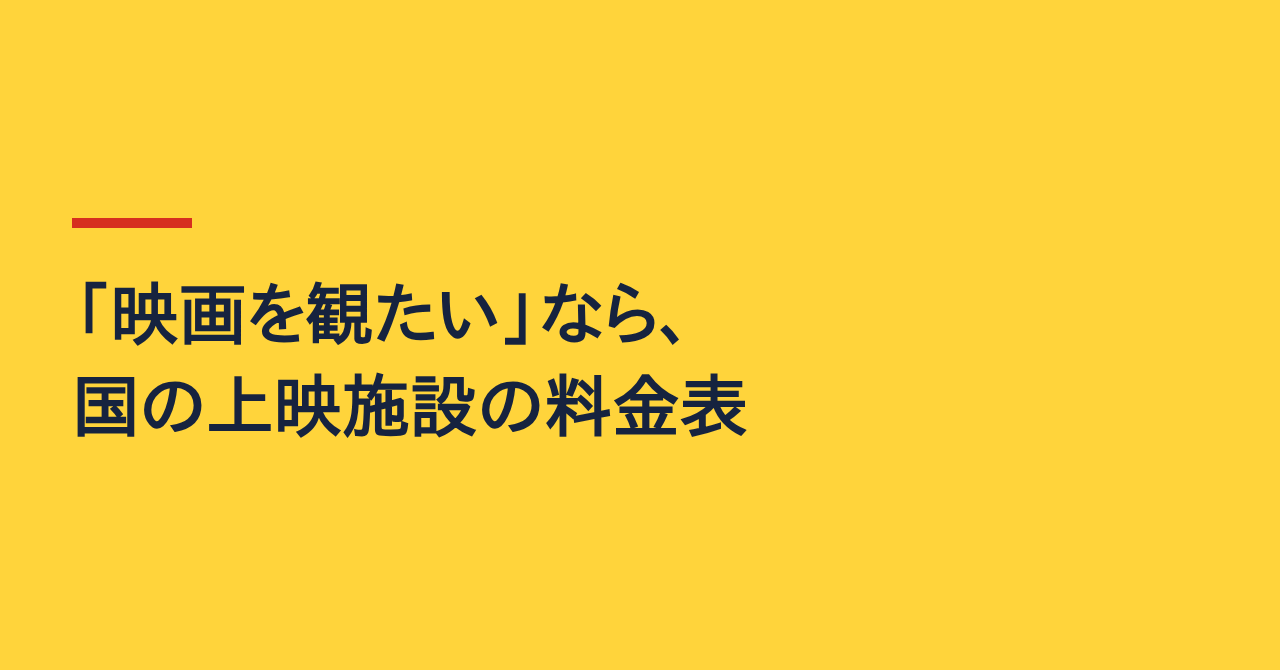
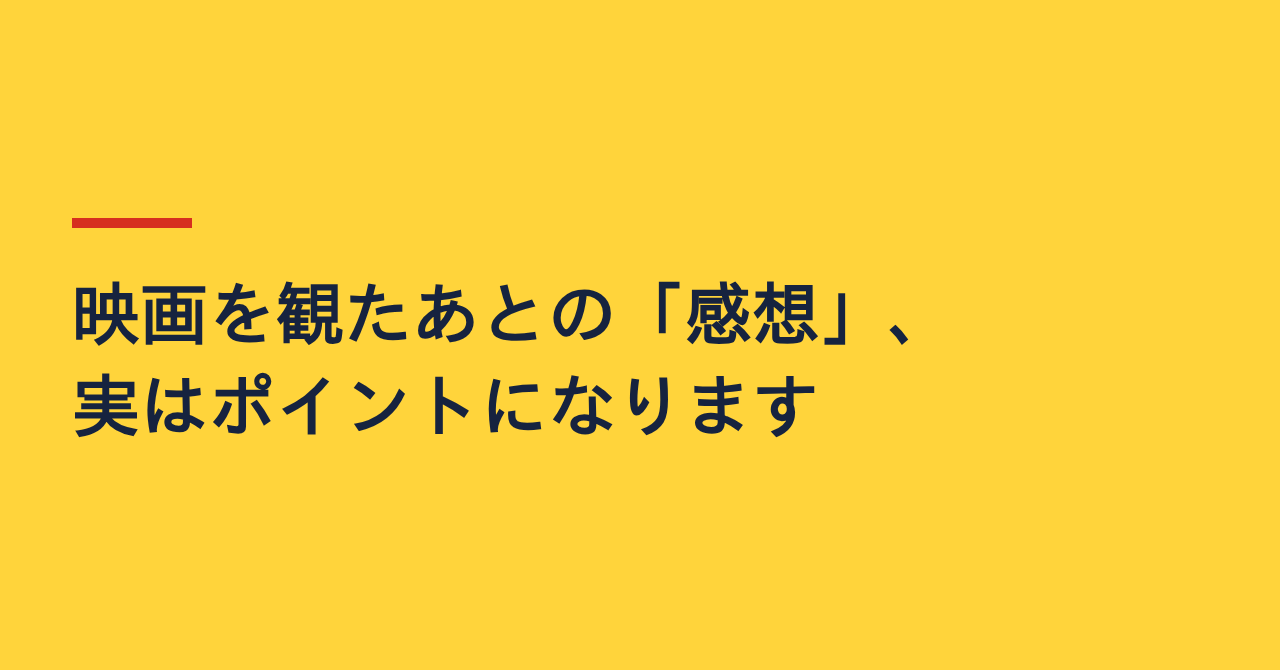
2026-10-28_001: Oricon-centered revision, title option 4, figures
Claude-Session: https://claude.ai/code/session_019jxzMkHZEL8EPC28xkVZW1

Changed region(s): [[0.0625, 0.4179, 0.7188, 0.6567]]

diff --git a/runs/2026-10-28_001/05_revised.md b/runs/2026-10-28_001/05_revised.md
@@ -1,100 +1,129 @@
-# 帰り道の「映画の感想」、お礼が出る調査もある
+# 映画を観たあとの「感想」、実はポイントになります
 
 【画像:2026-10-28_cover.png】
 
-こんにちは、人生最適化中の会社員です。今日は、映画の感想と、調査・モニターの話です。
+こんにちは、人生最適化中の会社員です。今日は、アンケートに答えてポイントをためる「オリコン・モニターリサーチ」を、公式の説明の範囲で見ていきます。
 
-映画館を出て、駅まで歩きながら「あのシーン、よかったね」と話す。その感想は、家に着くころには忘れている。そんな人もいると思います。
+映画館を出て、駅まで歩きながら「あのシーン、よかったね」と話す。その感想は、家に着くころには忘れている。そんな人もいると思います。その感想が、ポイントになるなら気になりますよね。
 
-ところが映画の試写会では、作品が観客にどう受け止められるかを調べる調査があると、市場調査会社のページで紹介されています(検索結果の要旨で確認。ページの本文までは読めていません)。感想を知りたい人は、世の中にいるようです。
+## 先に答え
 
-## 先に結論
+タイトルについて、先に正直にお伝えします。
 
-- 映画の試写会などで、観客の受け止めを調べる調査がある
-- 調査やモニターには、謝礼が出る案件がある。形も金額も、案件ごとに違う
-- ただし、この2つをつなげた「映画の感想に、お礼が出る」例は、公式のページでは確認できていません
+- 映画を観る必要があるかは、公式の説明に書かれていません
+- 書かれているのは、「アンケートに答えると、ポイントがたまる」ことです
+- ポイントは現金ではなく、3,000ポイントごとにAmazonギフト券番号と交換できる仕組みです
+- 1回のポイント数や、1ポイントの価値は、確認した範囲の説明にありません
 
-つまり、タイトルの「お礼が出る調査もある」は、「映画の調査」と「謝礼のある調査」が、それぞれ世の中にある、という意味です。「稼げる」という話ではありません。サービス名や金額は、公式の条件を確かめられたものだけを書いています。
+つまり「映画を観るだけでお金がもらえる」という話ではありません。「稼げる」という話でもありません。アンケートに答えて、ポイントをためる仕組みを紹介する記事です。
 
-この記事は一般的な情報で、助言ではありません。判断は自己責任で、必要なら専門家や公式の窓口に相談してください。
+この記事は一般的な情報で、助言ではありません。判断は自己責任で、必要なら公式の窓口に相談してください。
 
-## 公式のページで確認できた2つの制度
+## オリコン・モニターリサーチとは
 
-どちらも映画ではありません。別々の制度なので、1つずつ見ていきます。
-
-**文化庁の芸術祭「無料モニター」(観て、アンケートに答える)**
-
-歌舞伎やオーケストラなどの舞台公演を無料で鑑賞し、鑑賞後のアンケートに答える仕組みです。応募フォームから申し込み、応募が多いときは抽選になります。鑑賞は1人1公演で、権利の譲渡や転売は禁止です。当選者には9月中にメールで連絡があり、連絡がなければ落選と書かれています。アンケートの回答は必須で、交通費は出ません。現金の謝礼の記載もありません。令和8年度の受付は終了しています。(出典:文化庁、取得日2026年10月28日)
-
-**東京都のインターネット都政モニター(答えて、図書カードなどを受け取る)**
-
-18歳以上で都内に住み、個人のメールアドレスがある人が対象です。国・都・区市町村の職員は対象外で、定員は500名です。応募が多いときは、性別・年代・地域を考慮した選考があり、先着ではありません。結果は、メールで6月末までに知らせると書かれています。
-
-オンラインのアンケートに年6回ほど答え、1回ごとに「500円の図書カード」か「500東京ポイント」が、任期終了時にまとめて渡されます。令和8年度の応募期間は2026年5月12日〜28日で、終了しています。次の募集時期は確認できていません。(出典:東京都、取得日2026年10月28日)
-
-文化庁の例は「観て答える」ですが、謝礼はありません。都の例は「答えて受け取る」ですが、観るものはありません。映画の感想でお礼が出る例を、公式のページで見つけられたわけではない、という点は押さえておいてください。
-
-## 応募から受け取りまでの流れ
-
-2つの制度を並べると、おおまかな流れは次のようになります。
+オリコン・モニターリサーチは、オリコンが運営するアンケートモニターのサービスです。公式サイト(omr.oricon.co.jp)の「モニター活動の流れ」では、次の3つのステップで説明されています。この記事は、公式サイトの画面と、会員特典のページの本文をもとに書いています。
 
 【画像:2026-10-28_fig1_flow.png】
 
-どちらも、思い立ったその日に始められる形ではありません。募集の時期が決まっていて、応募して、選ばれてから動き出します。
+**ステップ1 会員登録**
 
-## 次の募集の探し方
+「新規モニター登録」から登録します。アンケートのお願いは、登録したメールアドレス宛に届きます。
 
-調査やモニターを探すなら、住んでいる市区町村や都道府県の公式サイトの検索窓に、「モニター 募集」と入れてみるのが手がかりになります。
+**ステップ2 好きなアンケートに回答**
 
-たとえば船橋市の「eモニターアンケート」は、対象が船橋市に住む18歳以上で、令和9年度分を令和9(2027)年2月から募集する予定と、公式ページに書かれています。登録すると1か月以内に完了メールが届き、月に1〜2回アンケートのメールが来ます。1回の回答は5分ほどとあります。年度末には、翌年度も続けるかを答えます。ただし、このページには謝礼の記載がなく、金額はわかりません。(出典:船橋市、更新日2026年10月6日、取得日2026年10月28日)
+お願いが届いたら、マイページから好きなアンケートを選んで答えます。パソコンやスマートフォンから答えられると説明されています。
 
-市区町村ごとに、対象も条件も募集の時期も違います。民間の調査やモニターは、運営している会社の公式ページで、募集の条件を読んでから応募すると安心です。
+**ステップ3 ポイントをゲット**
 
-## 応募の前に見る4つ
+回答したアンケートに応じて、ポイントが加算されます。3,000ポイントたまるごとに、Amazonギフト券番号と交換できます。
 
-応募ボタンを押す前に、次の4つを見ておくと、あとで困りにくくなります。
+「好きなアンケートを選ぶ」とあるので、届いたお願いの中から、自分の関心のあるものを選べる形のようです。
+
+## 会員特典で書かれていること
+
+会員特典のページには、次の3つが書かれています。
+
+- **ポイント**:アンケートに答えるとポイントがたまり、3,000ポイントごとにAmazonギフト券番号と交換できる
+- **プレゼント**:モニター会員限定の「イベント・プレゼント企画」が不定期にあり、家電やチケット、試写会、本などがもらえるチャンスがある
+- **ランキングや特集記事**:回答が、ランキングや特集記事などに活かされることがある
+
+プレゼント企画は「不定期」で、「チャンス」とあります。毎回もらえる、という意味ではありません。試写会がもらえる企画もあるようですが、必ずもらえるとは書かれていません。
+
+## 書かれていないこと
+
+ここまでの公式の説明には、次のことが書かれていませんでした。
+
+- 1回のアンケートが何ポイントか、1ポイントがいくらの価値か
+- 登録できる年齢などの条件
+- 費用(無料かどうか)
+- 映画を観る必要があるか
+- プレゼント企画の中身や当選の確率
+
+読者の方が気になるところだと思います。登録する前に、公式サイトの「会員規約」などで確かめておくと安心です。また、画面には「新規モニター募集中!!」と出ていました(公式サイトの画面による。取得日2026年11月1日)。募集の状況は、いつ読んでも同じとは限りません。募集状況は、公式で確認を。
+
+## 過去の回の例:映画GIFTが当たる企画
+
+検索結果の要旨で、2025年2月に、映画GIFTが当たるキャンペーンがあった回が見つかりました。要旨の内容は、登録とアンケートへの回答で、抽選12名に映画GIFT2,000円分(2枚)が当たる、というものです。要旨では、映画を観る必要はなく、現金でもなく、ムビチケの購入に使うものとされていました。
+
+ただし、これは要旨のみの確認で、公式の本文は確認できていません。過去の回の例なので、いまの回の条件は不明です。同じ企画が今あるとは限りません。
+
+## ほかにも公式の制度がある
+
+オリコンのような民間のサービスのほかに、公的機関のモニターもあります。今回、公式ページで確認できたのは次の3つです。どれも映画ではなく、別々の制度です。
+
+- **文化庁の芸術祭「無料モニター」**:歌舞伎やオーケストラなどの舞台公演を無料で鑑賞し、鑑賞後のアンケートに答える仕組みです。応募が多いときは抽選で、交通費は出ません。現金の謝礼の記載もありません。令和8年度の受付は終了しています。(出典:文化庁、取得日2026年10月28日)
+- **東京都のインターネット都政モニター**:18歳以上で都内に住む人が対象で、応募が多いときは選考があります。年6回ほどオンラインのアンケートに答え、1回ごとに500円の図書カードか500東京ポイントが、任期終了時にまとめて渡されます。令和8年度の募集は終了しています。(出典:東京都、取得日2026年10月28日)
+- **船橋市のeモニターアンケート**:船橋市に住む18歳以上が対象で、令和9年度分を2027年2月から募集する予定と書かれています。このページには謝礼の記載がなく、金額はわかりません。(出典:船橋市、更新日2026年10月6日、取得日2026年10月28日)
+
+対象も条件も募集の時期も、制度ごとに違います。
+
+## 登録の前に見る4つ
+
+登録や応募のボタンを押す前に、次の4つを見ておくと、あとで困りにくくなります。
 
 【画像:2026-10-28_fig2_check.png】
 
 ## つまずきやすいところ(読者のあるある)
 
-**「映画の感想でお礼」と聞いて、レビューサイトに書けばもらえると思った。** そんな人もいるかもしれません。ここまで見てきた制度は、どれも募集に応募して、条件に合って、決められた形で答えるのが前提でした。
+**「映画の感想でポイント」と聞いて、観ればすぐにたまると思った。** そんな人もいるかもしれません。公式の説明にあるのは、アンケートに答えるとポイントが加算される、という仕組みです。
 
-**募集に気づいたときには、終わっている。** 今回確認した公的なモニターは、令和8年度の受付が終わっているものばかりでした。気づいたときには締め切り後だった、という人もいると思います。次の募集予定が書かれているものは、カレンダーにメモしておくと見逃しにくくなります。
+**ポイントは、思ったよりゆっくりたまる。** 交換は3,000ポイントごとです。1回のポイント数は説明にないので、何回答えれば交換できるのかは、登録してみないとわかりません。そのペースに、つい気持ちが先に行ってしまう人もいると思います。
 
 ## 先にお金を求められたら、いったん止まる
 
 「簡単に稼げる」とうたう副業の相談として、仕事に申し込んだら、先にマニュアル代2万2,000円を求められた例が、国民生活センターに載っています。2023年10月の公表で、少し前の事例ですが、考え方は今も使えます。(出典:国民生活センター、2023年10月27日公表)
 
-モニターや調査の募集でも、登録料やサポート料など、先にお金を求められる話は、いったん止まってください。不安なときは、消費者ホットライン「188」に相談できます。
+モニターやアンケートの募集でも、登録料やサポート料など、先にお金を求められる話は、いったん止まってください。不安なときは、消費者ホットライン「188」に相談できます。
 
-もう1つ、口コミやレビューを書く依頼もあります。消費者庁は、広告であることがわからない表示(ステルスマーケティング)を、2023年10月1日から景品表示法違反としています。規制の対象は広告主(事業者)で、依頼を受けて書いた人ではないと説明されています。ですので、感想を書いただけで読者が違法になるわけではありません。
+口コミやレビューを書く依頼もあります。消費者庁は、広告であることがわからない表示(ステルスマーケティング)を、2023年10月1日から景品表示法違反としています。規制の対象は広告主(事業者)で、依頼を受けて書いた人ではないと説明されています。感想を書いただけで、読者が違法になるわけではありません。ただ、「星5で」のように内容を指定される依頼は、事業者の表示に当たると考えられます。引き受ける前に、一度考えてみてもよさそうです。(出典:消費者庁)
 
-ただ、「星5で」のように内容を指定される依頼や、推奨コメントを条件にする依頼は、事業者の表示に当たると考えられます。引き受ける前に、一度考えてみてもよさそうです。割引などを提供するだけで、投稿内容の指示がなければ、通常は事業者の表示に当たらないとも書かれています。(出典:消費者庁)
-
-## お礼をもらったら、税金は?
+## ポイントやギフト券をもらったら、税金は?
 
 副業などの収入で、給与以外の所得の合計が年20万円を超えると、会社員でも確定申告が必要になる場合があります(給与を1か所から受けていて、全額が源泉徴収されている人の場合)。(出典:国税庁 No.1900)
 
-ただし、これは所得税の確定申告の目安です。「20万円以下なら何もしなくてよい」という意味ではありません。住民税など、ほかの手続きもあります。調査やモニターのお礼が、どの所得に当たるのかは、国税庁のページや税務署、お住まいの市区町村で確かめておくと確実です。
+ただし、これは所得税の確定申告の目安です。「20万円以下なら何もしなくてよい」という意味ではありません。住民税など、ほかの手続きもあります。ポイントやギフト券が、どの所得に当たるのかは、国税庁のページや税務署、お住まいの市区町村で確かめておくと確実です。
 
 ## まとめ
 
-- 映画の試写会などで、観客の受け止めを調べる調査がある(市場調査会社のページの要旨で確認)
-- 調査やモニターには、謝礼が出る案件があり、形も金額も案件ごとに違う
-- 公式で確認できたのは、「観て、アンケートに答える」(文化庁・舞台公演)と、「アンケートに答えて、図書カードなどを受け取る」(東京都)の2つ。別々の制度で、どちらも令和8年度は終了
-- 次の募集は、船橋市のeモニターのように、予定が書かれているものから探せる
+- オリコン・モニターリサーチは、アンケートに答えるとポイントがたまるモニターサービス
+- 流れは「新規モニター登録」→アンケートに回答→ポイント加算→3,000ポイントごとにAmazonギフト券番号と交換
+- ポイントはギフト券番号と交換するもので、現金ではない
+- 映画を観る必要があるかは、公式の説明に書かれていない。1回のポイント数や条件、費用も書かれていない
+- 画面には「新規モニター募集中!!」とあったが、募集状況は公式で確認を
+- 映画GIFTが当たる企画は、過去の回の例(要旨のみの確認)。いまの回の条件は不明
+- ほかにも、文化庁・東京都・船橋市のような公式の制度がある
 - 先にお金を求められる話は止まる。相談先は188
-- お礼をもらったときの税金の扱いは、国税庁で確かめる
 
 最後まで読んでくれて、ありがとうございます。
 
 ## 情報源
+- https://omr.oricon.co.jp/ (オリコン・モニターリサーチ公式サイト「モニター活動の流れ」。公式サイトの画面で確認、取得日 2026-11-01。公式ページは編集部が直接開けていない)
+- オリコン・モニターリサーチ「会員特典」(公式ページの本文、取得日 2026-10-28)
+- 過去の映画GIFTキャンペーン(2025年2月の回): 検索結果の要旨のみで確認。公式の本文は未確認
 - https://www.bunka.go.jp/seisaku/geijutsubunka/jutenshien/geijutsusai/r08/94414001.html (文化庁 芸術祭無料モニター、取得日 2026-10-28)
 - https://www.metro.tokyo.lg.jp/information/press/2026/04/2026042301 (東京都 都政モニターの募集、公開 2026-04-23、取得日 2026-10-28)
 - https://www.metro.tokyo.lg.jp/tosei/iken-sodan/monitor (東京都 インターネット都政モニター、更新 2026-10-15、取得日 2026-10-28)
 - https://www.city.funabashi.lg.jp/shisei/kouchou/002/p120231.html (船橋市 eモニターアンケート、更新 2026-10-06、取得日 2026-10-28)
-- https://www.sisinternational.com/ja/expertise/movie-test-screening-market-research/ (SIS International 映画試写会の市場調査、取得日 2026-10-28。検索結果の紹介文のみで確認。ページ本文は未確認)
 - https://www.kokusen.go.jp/news/data/n-20231027_1.html (国民生活センター、公表 2023-10-27、取得日 2026-10-28)
 - https://www.caa.go.jp/policies/policy/representation/fair_labeling/stealth_marketing/ (消費者庁 ステルスマーケティング規制、取得日 2026-10-28)
 - https://www.caa.go.jp/policies/policy/representation/fair_labeling/faq/stealth_marketing/ (消費者庁 ステルスマーケティングに関するQ&A、取得日 2026-10-28)
@@ -117,4 +146,5 @@
 - 問題14: S4(雑所得)は本文で使っていないので情報源から外した。20万円の段落に「所得税の確定申告の目安で、20万円以下なら何もしなくてよい、ではない。ほかの手続きもある。国税庁・市区町村で確認」と添えた(住民税の中身は書いていない)。国民生活センターの例に「2023年10月の公表で、少し前の事例」と添えた。
 - 問題15: 中身のない次回予告を削除した(翌日のテーマが未決のため、入れない)。
 - 問題16: 「## 情報源」より後の執筆メモを削除した。サービス名・金額・条件の実名メモは author_notes.md にだけ残した。
-- 校正: 「謝礼」と「お礼」の使い分け(一般論は「謝礼」、読者向けの見出し・タイトルは「お礼」)、「答える/観る」の言い方、AIっぽい定型句(「最初に、はっきりさせておきます」「だからこそ〜という流れです」「ここで大事なのは」「ちゃんとありました」)を削除・言いかえ。「先に結論」の見出しを整理。否定の2連続を言いかえた。
+- 再編集(2026-11-01、持ち主から届いた公式情報にもとづく): (1) 記事の中心を、実名の「オリコン・モニターリサーチ」にした。使った事実は、新規モニター登録、お願いは登録メール宛、マイページから好きなアンケートを選ぶ、パソコン・スマホで回答、回答に応じたポイント加算、3,000ポイントごとにAmazonギフト券番号と交換、会員限定プレゼント企画(不定期・チャンス)、回答がランキング・特集記事に活かされることがある、の範囲のみ。(2) 1回のポイント数・1ポイントの価値・年齢などの条件・無料かどうか・映画を観る必要・試写会が必ず当たるか、は「書かれていない」と明記した。「映画を観るだけでお金」「稼げる」「◯円もらえる」の断定はせず、ポイントやギフト券で現金ではないと書いた。(3) 2025年2月の映画GIFT企画は「過去の回の例。要旨のみの確認で、公式の本文は未確認。いまの回の条件は不明」と短く入れた。(4) 文化庁・東京都・船橋市は「ほかにも公式の制度がある」の1節にまとめ、主役をオリコンにした。以前の問題1〜16の対応のうち、映画の試写会の導入・先に結論・流れ図の内容・まとめは、この再編集で置き換えた。(5) タイトルを「映画を観たあとの「感想」、実はポイントになります」に変え、本文の「先に答え」で正直に答えた。(6) 情報源にオリコン公式サイト(スクリーンショットで確認、取得日2026-11-01、公式ページは直接開けていない)と会員特典の本文(持ち主が貼付、URLは持ち主が確認)を載せた。(7) あるあるは導入・「つまずきやすいところ」の2つ+1つの計3か所以内。(8) figures.json を、表紙(icon yen、猫なし、1行12字以内)と、オリコンの流れの timeline、登録前の4つの checklist(boxes:false)に直した。承認2・投稿・SNS投稿はしていない。
+- 校正: 「謝礼」と「お礼」の使い分け(一般論は「謝礼」)、「答える/観る」の言い方、AIっぽい定型句(「最初に、はっきりさせておきます」「だからこそ〜という流れです」「ここで大事なのは」「ちゃんとありました」)を削除・言いかえ。「募集状況は公式で確認を」の言い方をそろえた。

diff --git a/runs/2026-10-28_001/author_notes.md b/runs/2026-10-28_001/author_notes.md
@@ -1,6 +1,32 @@
 # author_notes(実行 2026-10-28_001)
 
-## 【最新】2026-10-28 新しい方向での書き直し(03_draft.md)
+## 【最新】2026-11-01 再編集(オリコン・モニターリサーチを主役に)
+持ち主は「映画を見るだけでお金がもらえるの!?という意外性・興味」を求めている。事実の範囲で1番を採用(仮)。
+
+### タイトル候補5つ
+1. 映画の感想を答えるだけで、ポイントがもらえるって本当?(26字)※採用(仮)。問いの形で意外性を出し、本文で正直に答える
+2. 映画の感想で、ポイントがたまるモニターがあるって知ってた?(27字)
+3. 「映画の感想」に、ポイントがつくアンケートの話(21字)
+4. アンケートに答えてポイントをためる、その流れを見てみた(26字)※「見てみた」は体験を装うので不向き
+5. 映画の「感想」は、ポイントになる?公式の説明を読む(23字)
+
+### 使った事実・使わなかった事実
+- 使った: owner_source_oricon.md の「使える事実」のみ。映画GIFT(2025年2月)は要旨のみ、過去の回の例として短く。
+- 書かなかった: 1回のポイント数、1ポイントの価値、年齢などの条件、無料かどうか、映画を観る必要、試写会が必ず当たるか。「書かれていない」と書いた。
+- 「映画を観るだけでお金」「稼げる」「◯円もらえる」は断定していない。ポイント・ギフト券で現金ではない、と明記。
+
+### Claudeの提案(未確認)— 足した「あるある」(3か所。合わなければ消す。読者の場面で、筆者の体験ではない)
+1. 導入: 「その感想が、ポイントになるなら気になりますよね」と、帰り道の場面
+2. 「『映画の感想でポイント』と聞いて、観ればすぐにたまると思った。」
+3. 「ポイントは、思ったよりゆっくりたまる。」(交換が3,000ポイントごと、という事実から。1回のポイント数は書いていない)
+
+### 未了
+- 会員特典ページのURLは、持ち主が確認して情報源に追記する。
+- 2025年2月の映画GIFTの要旨は、URLが記録にない。公式本文が見つかれば確かめる。
+
+---
+
+## 【前】2026-10-28 新しい方向での書き直し(03_draft.md)
 持ち主の指示: 映画を観て感想・アンケートに答えると、ポイントや謝礼が出る調査やサービスが存在する、と紹介する。金額が無くても、存在の紹介だけでよい。
 
 ### 持ち主の主張(未照合)
@@ -43,4 +69,7 @@
 ## その他
 - owner_example.md は形の参考だけ。報酬額・サイト名・応募テンプレートは使っていない(未確認)。
 - 体験欄(【要入力】)は作っていない。誤字の修正は無し。持ち主の言葉からの推察も無し。
-- 次回予告は一般的な書き方。実際のテーマが決まったら書き換えるとよい。
+- 次回予告は入れていない。
+
+## 2026-11-01 タイトル決定(持ち主)
+- 持ち主が5案から『4』を選んだ: 映画を観たあとの「感想」、実はポイントになります(22字)。注意: 『観たあとの感想がそのままポイントになる』と読めるが、公式で確認できているのは『アンケートに答えるとポイントがたまる』こと。映画の感想のアンケートが届くかは、そのときによる(本文で正直に書く)。
